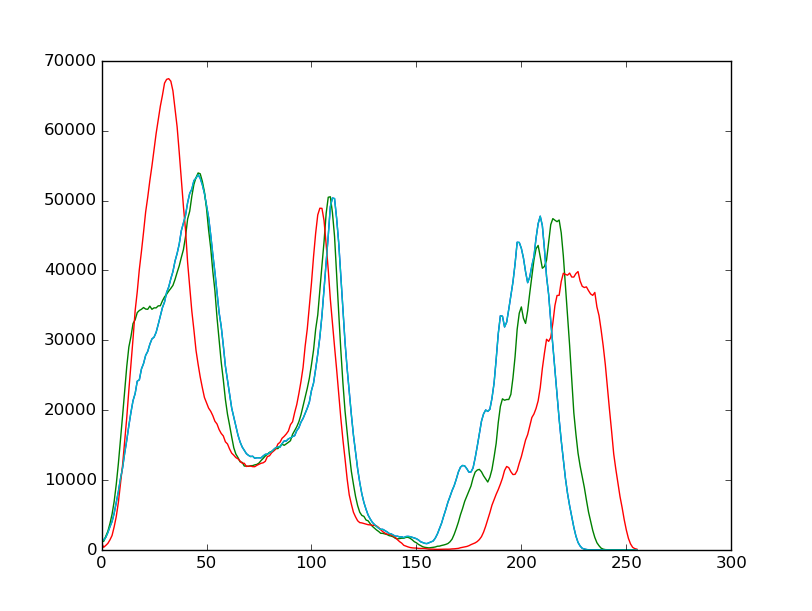
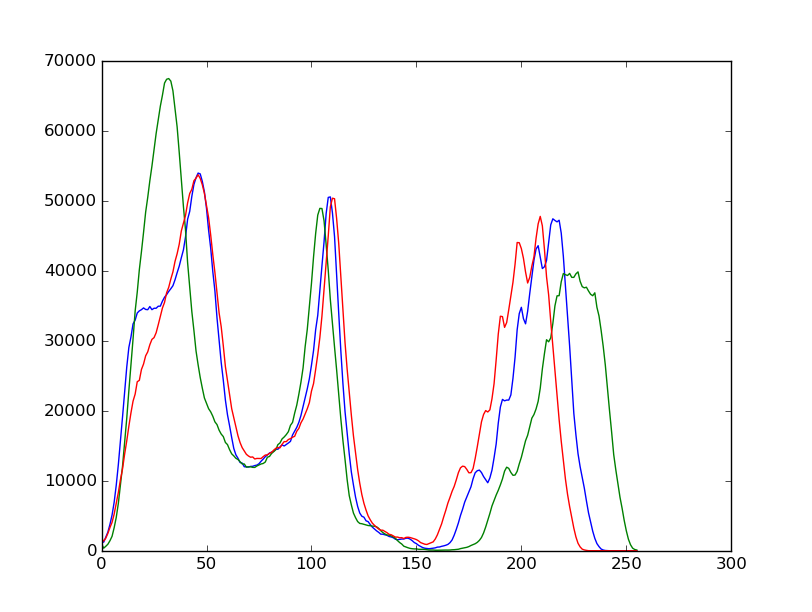
Fix colors in histogram in lab2

diff --git a/lab2/main.py b/lab2/main.py
@@ -13,7 +13,10 @@ def main():
 
     # Init storage for data count
     value_type_info = np.iinfo(img[0][0][0])
-    hists = np.zeros((len(img[0][0]), math.trunc(value_type_info.max) + 1))
+    hists = np.zeros((
+        len(img[0][0]),
+        math.trunc(value_type_info.max) + 1
+    ))
 
     # Build histogram
     for line in img:
@@ -23,9 +26,9 @@ def main():
 
     # Display histogram
     imgplot = plt.plot(
-        range(math.trunc(value_type_info.max) + 1), hists[0],
         range(math.trunc(value_type_info.max) + 1), hists[1],
         range(math.trunc(value_type_info.max) + 1), hists[2],
+        range(math.trunc(value_type_info.max) + 1), hists[0],
     )
     plt.show(imgplot)
 
